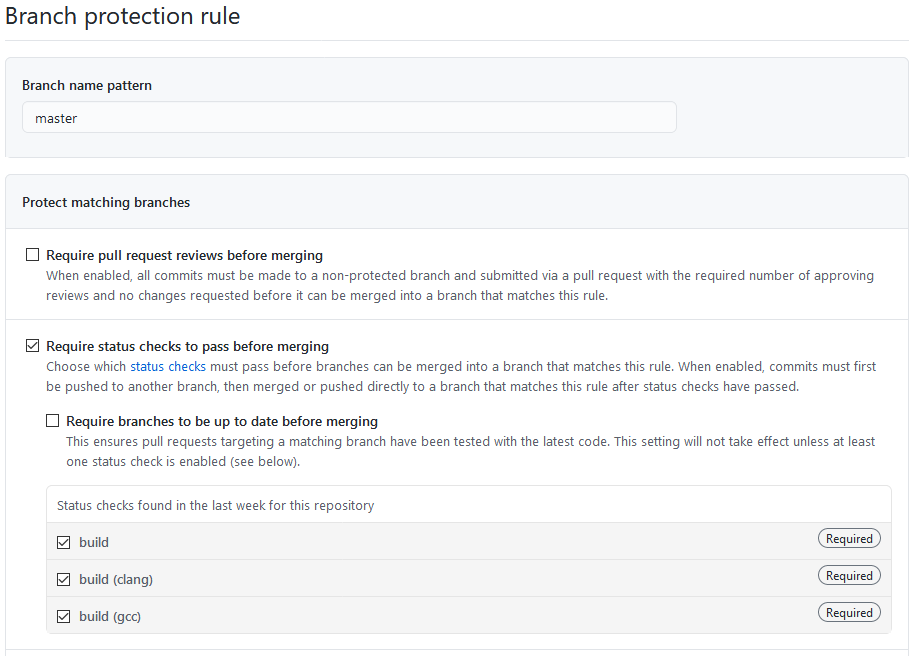
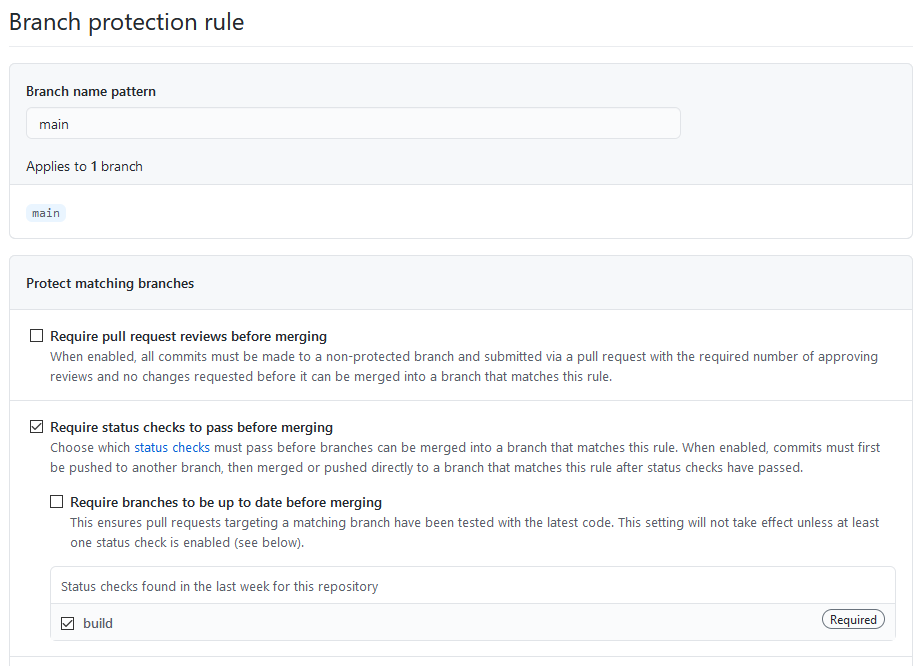
Update instructions

diff --git a/index.md b/index.md
@@ -1,132 +1,3 @@
-# Інструкції по використанню шаблону C++ проектів для студентів пана Олега Фаренюка
+# Зміст
 
-[xx](https://ucu-computer-systems.github.io/cpp-template)
-
-## TL;DR
-
-1. [Згенерувати](https://github.com/chernetskyi/cpp-template/generate) репозиторій з шаблону
-2. Склонувати собі свій репозиторій
-3. Створити гілку для розробки і попрацювати над своїм проектом в ній
-4. Коли нова ітерація проекту готова до релізу - зробити Pull Request в гілку `master`
-5. Якщо GCC/Clang тести успішно пройдено - злити гілки
-
-## Для тих, хто хоче розуміти, що і чому робить
-
-- [Генеруємо репозиторій](#генеруємо-репозиторій)
-  - [Приватний чи публічний?](#приватний-чи-публічний)
-- [Робота над проектом](#робота-над-проектом)
-  - [Зауваження](#зауваження)
-  - [Один розробник](#один-розробник)
-  - [Команда розробників](#команда-розробників)
-  - [Рекомендовано: правила захисту гілок](#рекомендовано-правила-захисту-гілок)
-- [Про шаблон](#про-шаблон)
-  - [CMakeLists.txt](#cmakeliststxt)
-    - [Опції](#опції)
-  - [apt_packages.txt](#apt_packagestxt)
-  - [conanfile.txt](#conanfiletxt)
-  - [README.md](#readmemd)
-  - [gitignore](#gitignore)
-  - [.github/workflows](#githubworkflows)
-
-### Генеруємо репозиторій
-
-Заходимо на [сторінку свого улюбленого асистента](https://github.com/chernetskyi) і починаємо стежити за ним, щоб не пропустити жодних оновлень. Переходимо на [сторінку шаблонного репозиторію](https://github.com/chernetskyi/cpp-template) і ставимо зірочку, щоб було легше знайти в майбутньому. [Генеруємо репозиторій](https://github.com/chernetskyi/cpp-template/generate) для свого проекту.
-
-![generate](./images/generate.png)
-
-Копіювати інші гілки, окрім `master`, немає потреби.
-
-#### Приватний чи публічний?
-
-Для боротьби з плагіатом (і для того, щоб не соромитись на весь світ своїм кодом, який потім ще й [майбутнім поколінням показуватимуть](https://archiveprogram.github.com/)) репозиторій на час розробки проекту варто робити приватним. Видимість GitHub репозиторію (публічний/приватний) можна змінити в налаштуваннях репозиторію.
-
-[Неперервна інтеграція](https://uk.wikipedia.org/wiki/Неперервна_інтеграція) в шаблоні базується на [GitHub Actions](https://github.com/features/actions). Для приватних репозиторіїв є обмеження на тривалість роботи GitHub Actions: 2000 хвилин в місяць для безкоштовних акаунтів, 3000 - для PRO. Якщо користуватись GitHub Actions лише для проектів на курсах пана Олега і працювати **розумно** - цих хвилин вистачає. Для публічних репозиторіїв обмежень на тривалість роботи GitHub Actions немає.
-
-### Робота над проектом
-
-Для того, щоб слово **Git** в резюме студентів щось означало, і для того, щоб студенти мали уявлення про процес розробки програмного забезпечення в дорослому світі, працювати з проектом варто (доведеться задля тестів) по одній із стратегій гілкування: популярній [Git Flow](https://nvie.com/posts/a-successful-git-branching-model/), простішій і тепер рекомендованій автором Git Flow [GitHub Flow](https://guides.github.com/introduction/flow/), чи рідкісній, проте ефективній [Trunk Based Development](https://trunkbaseddevelopment.com/). Пишіть [правильні](https://chris.beams.io/posts/git-commit/) повідомлення комітів, або хоча б без всіляких непристойностей: балів не зніматимемо, але асистентам і викладацькому складу буде весело.
-
-![commit](./images/commit.png)
-
-#### Зауваження
-
-1. В будь-який момент часу код гілки `master` повинен бути **робочим** - хоча б компільованим. **Робота перевірятиметься із гілки `master`.**
-2. Для запуску тестів необхідно зробити Pull Request в `master`. Звісно, можна зробити PR `master`→`master`, але такі збочення не варто показувати людям.
-
-Усі згадані вище і описані нижче стратегії гілкування задовільняють ці умови.
-
-> Працюйте над своїми проектами як заманеться. Нижче лише рекомендації до процесу розробки за двома стратегіями гілкування, які пробував ваш улюблений асистент. Задля цікавого досвіду, при роботі в команді випробуйте Trunk Based Development.
-
-#### Один розробник
-
-Процес описаний нижче подібний до **GitHub  Flow**.
-
-1. Клонуємо репозиторій.
-2. Створюємо гілку розробки (`dev`/`develop`/`development`, але не `developer`) із гілки `master`: `git checkout -b development`.
-3. Вносимо зміни.
-4. Зберігаємо зміни віддалено, в `origin`: з `development` гілки `git push -u origin development`(після першого разу можна просто `git push`).
-5. Коли, на думку студента, новий реліз проекту є готовим (локально відтестований), - створюємо Pull Request із гілки `development` в гілку `master`.
-6. В разі успішного проходження всіх тестів - зливаємо гілки, в іншому разі - виправляємо, тести запускатимуться щоразу при push'і в гілку розробки, поки Pull Request відкритий.
-
-#### Команда розробників
-
-Процес описаний нижче подібний до **Git  Flow**.
-
-1. Створюємо гілку розробки (`dev`/`develop`/`development`, але не `developer`) із гілки `master` у Web інтерфейсі GitHub на сторінці репозиторію, щоб уникнути зайвих конфліктів.
-2. Клонуємо репозиторій.
-3. Щоб розробка над проектом велась командою паралельно, а не послідовно, кожен член команди повинен створювати свою гілку (`feature/help-flag` чи `bug/nullptr-reference` для прикладу) з останньої версії гілки розробки: `git pull`, `git checkout development`, `git checkout -b feature/common-library`.
-4. Вносимо зміни.
-5. Зберігаємо зміни віддалено, в `origin`: з своєї гілки `git push -u origin feature/common-library`(після першого разу можна просто `git push`).
-6. Коли, на думку студента, частина функціоналу, яку він реалізовував чи виправляв готова (локально відтестована), - створюємо Pull Request із своєї гілки в гілку розробки і зливаємо гілки.
-7. Коли, на думку команди, новий реліз проекту є готовим (локально відтестований), - створюємо Pull Request із гілки `development` в гілку `master`.
-8. В разі успішного проходження всіх тестів - зливаємо гілки, в іншому разі - виправляємо, тести запускатимуться щоразу при push'і в гілку розробки, поки Pull Request відкритий.
-
-#### Рекомендовано: правила захисту гілок
-
-Для "правильності", після першого Pull Request, налаштуємо правила захисту гілок. З їх допомогою можна заборонити злиття гілок, якщо не проходять тести. В налаштуваннях репозиторію, в розділі **Branches**, створюємо нове правило.
-
-![branch protection rule](./images/branch_protection.png)
-
-### Про шаблон
-
-#### CMakeLists.txt
-
-З метою приховання деталь, із [CMakeLists.txt](https://github.com/chernetskyi/cpp-template/blob/master/CMakeLists.txt) винесено директиви до директорії [cmake](https://github.com/chernetskyi/cpp-template/tree/master/cmake). Для зручності, в CMakeLists.txt залишено лише опції, директиви для компіляції проекту та налаштування санітайзерів.
-
-##### Опції:
-
-1. `WARNINGS_AS_ERRORS` - попередження компілятора сприйматимуться, як помилки. Рекомендована, проте не обов'язкова опція. В рідких випадках може руйнувати компіляцію правильного коду.
-2. `ENABLE_SANITIZERS` - вмикає перевірку коду санітайзерами. Доступні санітайзери UB, пам'яті, адреси та потоків. На жаль, одночасно може працювати лише один з санітайзерів пам'яті, адреси та потоків. **При активації цієї опції потрібно додати CMake ціль до директиви `add_sanitizers()`.**
-3. `ENABLE_CONAN` - активує використання пакетного менеджера С/C++ Conan. Потрібна лише при використанні сторонніх бібліотек (**окрім Boost**) при компіляції MSVC. Не впливає на компіляцію на Linux. Використовується разом із [conanfile.txt](#conanfiletxt).
-
-#### apt_packages.txt
-
-В [apt_packages.txt](https://github.com/chernetskyi/cpp-template/blob/master/apt_packages.txt) потрібно вказувати назви пакетів пакетного менеджеру apt, які необхідні для успішної компіляції вашого проекту, розділені новим рядком. Файл підтримує коментарі, тому пишіть їх.
-
-> Зазвичай, якщо ви використовуєте CMake директиву `find_package()`, то потрібно додати запис в apt_packages.txt.
-
-Навіть якщо ви не потребуєте жодних додаткових пакетів, **не видаляйте apt_packages.txt**, залиште його порожнім.  Навіть якщо ваш пакет є в середовищі GitHub Action ([cписок](https://github.com/actions/virtual-environments/blob/main/images/linux/Ubuntu2004-README.md)), вкажіть його в apt_packages.txt, його може не бути в того, хто перевіряє.
-
-Не забудьте прибрати Boost.Program_options із apt_packages.txt, якщо не потребуєте його, - це прискорить тести.
-
-#### conanfile.txt
-
-Файл із інструкціями для пакетного менеджера C/C++ Conan. Використовує типовий синтаксис conanfile. Потрібен лише при активації опції `ENABLE_CONAN` в CMakeLists.txt (компіляція MSVC із будь-якими сторонніми бібліотеками, **окрім Boost**). Окрім репозиторіїв Conan, є підтримка репозиторіїв Bincrafters.
-
-#### README.md
-
-[README.md](https://github.com/chernetskyi/cpp-template/blob/master/README.md) є прикладом того, що від вас хоче бачити той, хто перевіряє. Допускаються README в довільному вигляді, проте на питання "як компілювати?", "як користуватись?", та "хто робив?" варто відповісти.
-
-#### gitignore
-
-[.gitignore](https://github.com/chernetskyi/cpp-template/blob/master/.gitignore) включає в себе велику кількість правил, щоб студенти не завантажували "сміття": артефакти компіляції, файли налаштування проекту в середовищі розробки та інше.
-
-#### .github/workflows
-
-[ubuntu.yml](https://github.com/chernetskyi/cpp-template/blob/master/.github/workflows/ubuntu.yml) та [windows.yml](https://github.com/chernetskyi/cpp-template/blob/master/.github/workflows/windows.yml) описують запуск GitHub Actions для неперервної інтеграції. На даний момент, тестується компільованість проекту на компіляторах g++, clang++ та MSVC. Тести запускаються паралельно.
-
-![status checks](./images/statuschecks.png)
-
-## Зворотній зв'язок
-
-Будь-які коментарі по шаблону пишіть автору ([вашому улюбленому асистенту](https://github.com/chernetskyi)) особисто. Пропозиції по реалізації нового функціоналу чи bug report'и залишайте в [issues](https://github.com/chernetskyi/cpp-template/issues).
+[Інструкції по використанню шаблону C++ проектів для студентів пана Олега Фаренюка](https://ucu-computer-systems.github.io/cpp-template/)

diff --git a/cpp-template/index.md b/cpp-template/index.md
@@ -1,3 +1,122 @@
-# X
+# Інструкції по використанню шаблону C++ проектів для студентів пана Олега Фаренюка
 
-## xx
+## TL;DR
+
+1. [Згенерувати](https://github.com/ucu-computer-systems/cpp-template/generate) репозиторій з шаблону
+2. Склонувати собі свій репозиторій
+3. Створити гілку для розробки і попрацювати над своїм проектом в ній
+4. Коли нова ітерація проекту готова до релізу - зробити Pull Request в гілку `main`
+5. Якщо тести успішно пройдено - злити гілки
+
+## Для тих, хто хоче розуміти, що і чому робить
+
+- [Генеруємо репозиторій](#генеруємо-репозиторій)
+  - [Приватний чи публічний?](#приватний-чи-публічний)
+- [Робота над проектом](#робота-над-проектом)
+  - [Зауваження](#зауваження)
+  - [Один розробник](#один-розробник)
+  - [Команда розробників](#команда-розробників)
+  - [Рекомендовано: правила захисту гілок](#рекомендовано-правила-захисту-гілок)
+- [Про шаблон](#про-шаблон)
+  - [CMakeLists.txt](#cmakeliststxt)
+    - [Опції](#опції)
+  - [dependencies](#dependencies)
+  - [README.md](#readmemd)
+  - [.github/workflows](#githubworkflows)
+
+### Генеруємо репозиторій
+
+Заходимо на [сторінку шаблонного репозиторію](https://github.com/ucu-computer-systems/cpp-template) і ставимо зірочку, щоб було легше знайти в майбутньому. [Генеруємо репозиторій](https://github.com/ucu-computer-systems/cpp-template/generate) для свого проекту.
+
+![generate](https://ucu-computer-systems.github.io/images/generate.png)
+
+Копіювати інші гілки, окрім `main`, немає потреби.
+
+#### Приватний чи публічний?
+
+Для боротьби з плагіатом (і для того, щоб не соромитись на весь світ своїм кодом, який потім ще й [майбутнім поколінням показуватимуть](https://archiveprogram.github.com/)) репозиторій на час розробки проекту варто робити приватним. Видимість GitHub репозиторію (публічний/приватний) можна змінити в налаштуваннях репозиторію.
+
+[Неперервна інтеграція](https://uk.wikipedia.org/wiki/Неперервна_інтеграція) в шаблоні базується на [GitHub Actions](https://github.com/features/actions). Для приватних репозиторіїв є обмеження на тривалість роботи GitHub Actions: 2000 хвилин в місяць для безкоштовних акаунтів, 3000 - для PRO. Якщо користуватись GitHub Actions лише для проектів на курсах пана Олега і працювати **розумно** - цих хвилин вистачає. Для публічних репозиторіїв обмежень на тривалість роботи GitHub Actions немає.
+
+### Робота над проектом
+
+Для того, щоб слово **Git** в резюме студентів щось означало, і для того, щоб студенти мали уявлення про процес розробки програмного забезпечення в дорослому світі, працювати з проектом варто по одній із стратегій гілкування: популярній [Git Flow](https://nvie.com/posts/a-successful-git-branching-model/), простішій і тепер рекомендованій автором Git Flow [GitHub Flow](https://guides.github.com/introduction/flow/), чи рідкісній, проте ефективній [Trunk Based Development](https://trunkbaseddevelopment.com/). Пишіть [правильні](https://chris.beams.io/posts/git-commit/) повідомлення комітів, або хоча б без всіляких непристойностей: балів не зніматимемо, але асистентам і викладацькому складу буде весело.
+
+![commit](https://ucu-computer-systems.github.io/images/commit.png)
+
+#### Зауваження
+
+1. В будь-який момент часу код гілки `main` повинен бути **робочим** - хоча б компільованим. **Робота перевірятиметься із гілки `main`.**
+2. Для запуску тестів необхідно зробити Pull Request в `main`. Звісно, можна зробити PR `main`→`main`, але такі збочення не варто показувати людям.
+
+Усі згадані вище і описані нижче стратегії гілкування задовільняють ці умови.
+
+> Працюйте над своїми проектами як заманеться. Нижче лише рекомендації до процесу розробки за двома стратегіями гілкування. Задля цікавого досвіду, при роботі в команді випробуйте Trunk Based Development.
+
+#### Один розробник
+
+Процес описаний нижче подібний до **GitHub  Flow**.
+
+1. Клонуємо репозиторій.
+2. Створюємо гілку розробки (`dev`/`develop`/`development`, але не `developer`) із гілки `main`: `git checkout -b development`.
+3. Вносимо зміни.
+4. Зберігаємо зміни віддалено, в `origin`: з `development` гілки `git push -u origin development`(після першого разу можна просто `git push`).
+5. Коли, на думку студента, новий реліз проекту є готовим (локально відтестований), - створюємо Pull Request із гілки `development` в гілку `main`.
+6. В разі успішного проходження всіх тестів - зливаємо гілки, в іншому разі - виправляємо, тести запускатимуться щоразу при push'і в гілку розробки, поки Pull Request залишається відкритим.
+
+#### Команда розробників
+
+Процес описаний нижче подібний до **Git  Flow**.
+
+1. Створюємо гілку розробки (`dev`/`develop`/`development`, але не `developer`) із гілки `main` у Web інтерфейсі GitHub на сторінці репозиторію, щоб уникнути зайвих конфліктів.
+2. Клонуємо репозиторій.
+3. Щоб розробка над проектом велась командою паралельно, а не послідовно, кожен член команди повинен створювати свою гілку (`feature/help-flag` чи `bug/nullptr-reference` для прикладу) з останньої версії гілки розробки: `git pull`, `git checkout development`, `git checkout -b feature/common-library`.
+4. Вносимо зміни.
+5. Зберігаємо зміни віддалено, в `origin`: з своєї гілки `git push -u origin feature/common-library`(після першого разу можна просто `git push`).
+6. Коли, на думку студента, частина функціоналу, яку він реалізовував чи виправляв готова (локально відтестована), - створюємо Pull Request із своєї гілки в гілку розробки і зливаємо гілки.
+7. Коли, на думку команди, новий реліз проекту є готовим (локально відтестований), - створюємо Pull Request із гілки `development` в гілку `main`.
+8. В разі успішного проходження всіх тестів - зливаємо гілки, в іншому разі - виправляємо, тести запускатимуться щоразу при push'і в гілку розробки, поки Pull Request залишається відкритим.
+
+#### Рекомендовано: правила захисту гілок
+
+Для "правильності", після першого Pull Request, налаштуємо правила захисту гілок. З їх допомогою можна заборонити злиття гілок, якщо не проходять тести. В налаштуваннях репозиторію, в розділі **Branches**, створюємо нове правило.
+
+![branch protection rule](https://ucu-computer-systems.github.io/images/branch_protection.png)
+
+### Про шаблон
+
+#### CMakeLists.txt
+
+З метою приховання деталь, із [CMakeLists.txt](https://github.com/ucu-computer-systems/cpp-template/blob/main/CMakeLists.txt) винесено директиви до директорії [cmake](https://github.com/ucu-computer-systems/cpp-template/tree/main/cmake). Для зручності, в CMakeLists.txt залишено лише опції, директиви для компіляції проекту та налаштування санітайзерів.
+
+##### Опції:
+
+1. `WARNINGS_AS_ERRORS` - попередження компілятора сприйматимуться, як помилки. Рекомендована, проте не обов'язкова опція. В рідких випадках може руйнувати компіляцію правильного коду.
+2. `ENABLE_CONAN` - активує використання пакетного менеджера С/C++ Conan. Потрібна лише при використанні сторонніх бібліотек (**окрім Boost**) при компіляції MSVC. Не впливає на компіляцію на Linux. Використовується разом із [conanfile.txt](#conanfiletxt).
+3. `ENABLE_PVS_STUDIO` - вмикає статичний аналіз коду за допомогою PVS-Studio. **Тільки для локального використання: інструмент PVS-Studio не встановлений на GitHub Actions runner'ах!**
+4. `ENABLE_SANITIZERS` - вмикає перевірку коду санітайзерами. Доступні санітайзери UB, пам'яті, адреси та потоків. На жаль, одночасно може працювати лише один з санітайзерів пам'яті, адреси та потоків.
+
+
+#### dependencies
+
+В директорії [dependencies](https://github.com/ucu-computer-systems/cpp-template/blob/main/dependencies) знаходяться текстові файли для назв пакетів відповідних пакетних менеджерів.
+
+> Зазвичай, якщо ви використовуєте CMake директиву `find_package()`, потрібно додати записи у файли із залежностями.
+
+#### README.md
+
+[README.md](https://github.com/ucu-computer-systems/cpp-template/blob/main/README.md) є прикладом того, що від вас хоче бачити той, хто перевіряє. Допускаються README в довільному вигляді, проте на питання "як компілювати?", "як користуватись?", та "хто робив?" варто відповісти.
+
+#### .github/workflows
+
+#### Перевірки на Windows тимчасово недоступні
+
+##### Дякумо, GitHub, за те, що прибрали Boost з Windows runner'ів!
+
+[ubuntu.yml](https://github.com/ucu-computer-systems/cpp-template/blob/main/.github/workflows/ubuntu.yml) та [macos.yml](https://github.com/ucu-computer-systems/cpp-template/blob/main/.github/workflows/macos.yml) описують запуск GitHub Actions для неперервної інтеграції. На даний момент, тестується компільованість проекту на компіляторах g++ та clang++. Тести запускаються паралельно.
+
+![status checks](https://ucu-computer-systems.github.io/images/statuschecks.png)
+
+## Зворотній зв'язок
+
+Будь-які коментарі по шаблону пишіть свому асистенту. Пропозиції по реалізації нового функціоналу чи bug report'и залишайте в [issues](https://github.com/ucu-computer-systems/cpp-template/issues).
